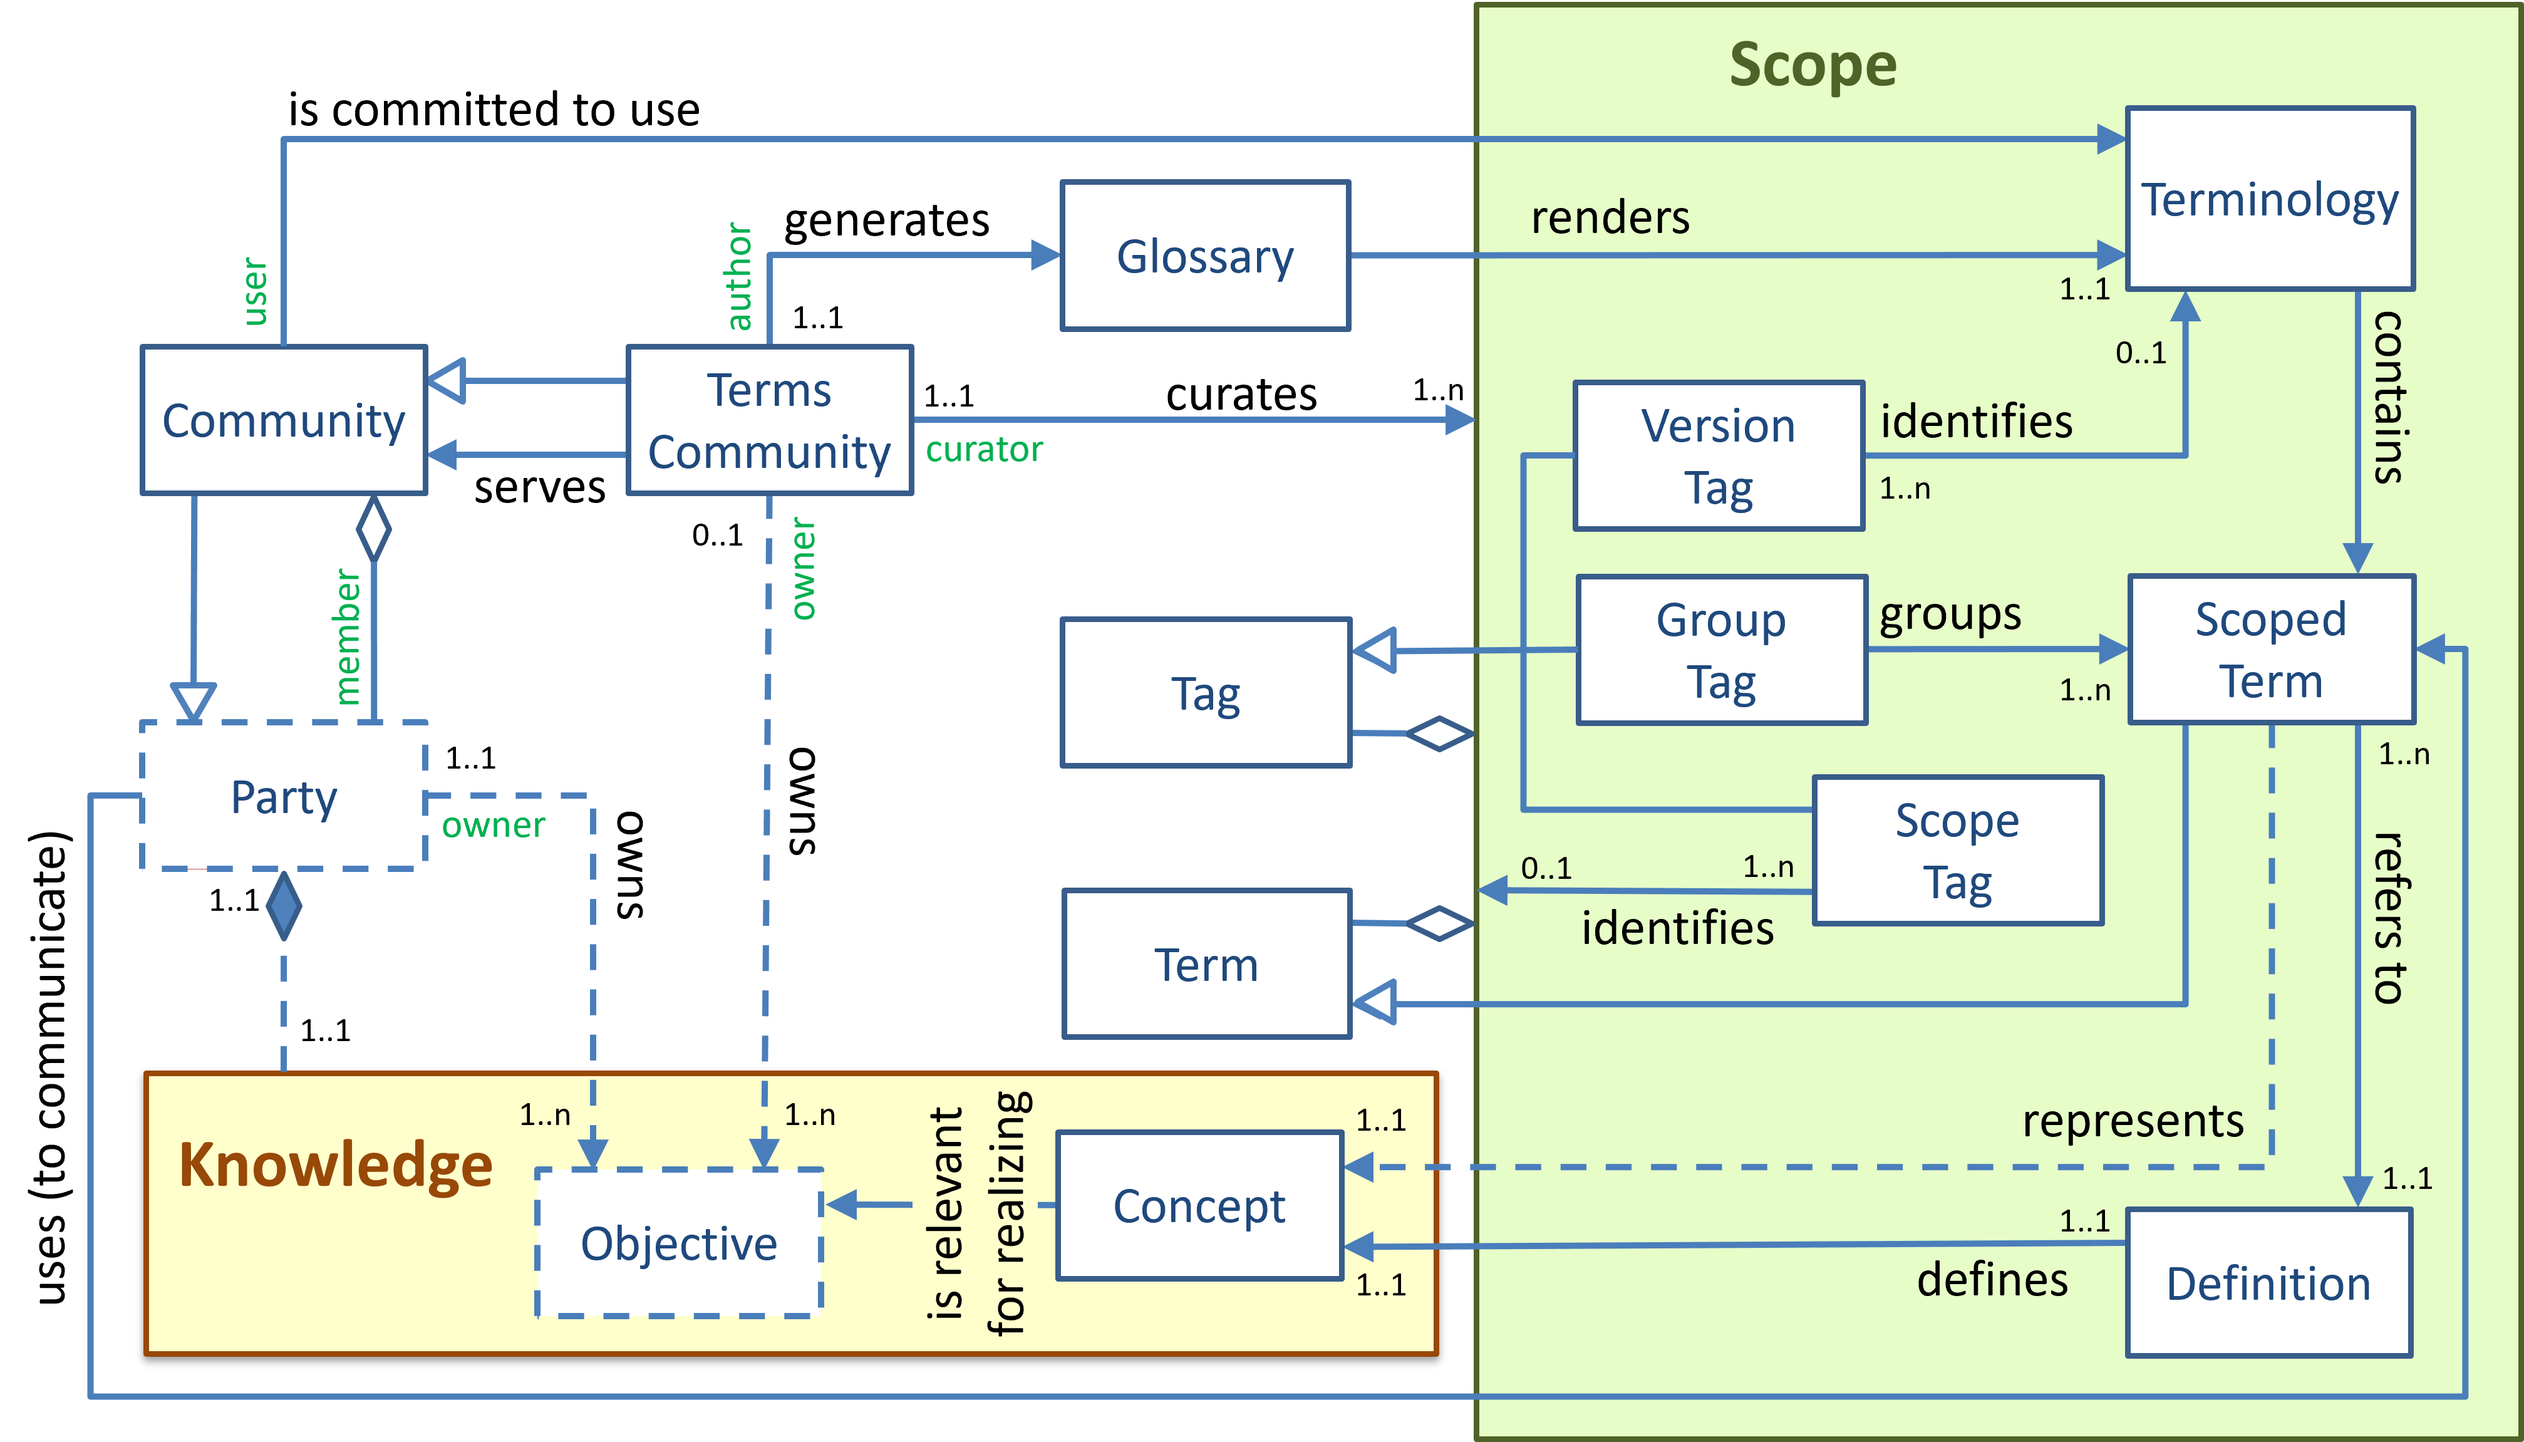
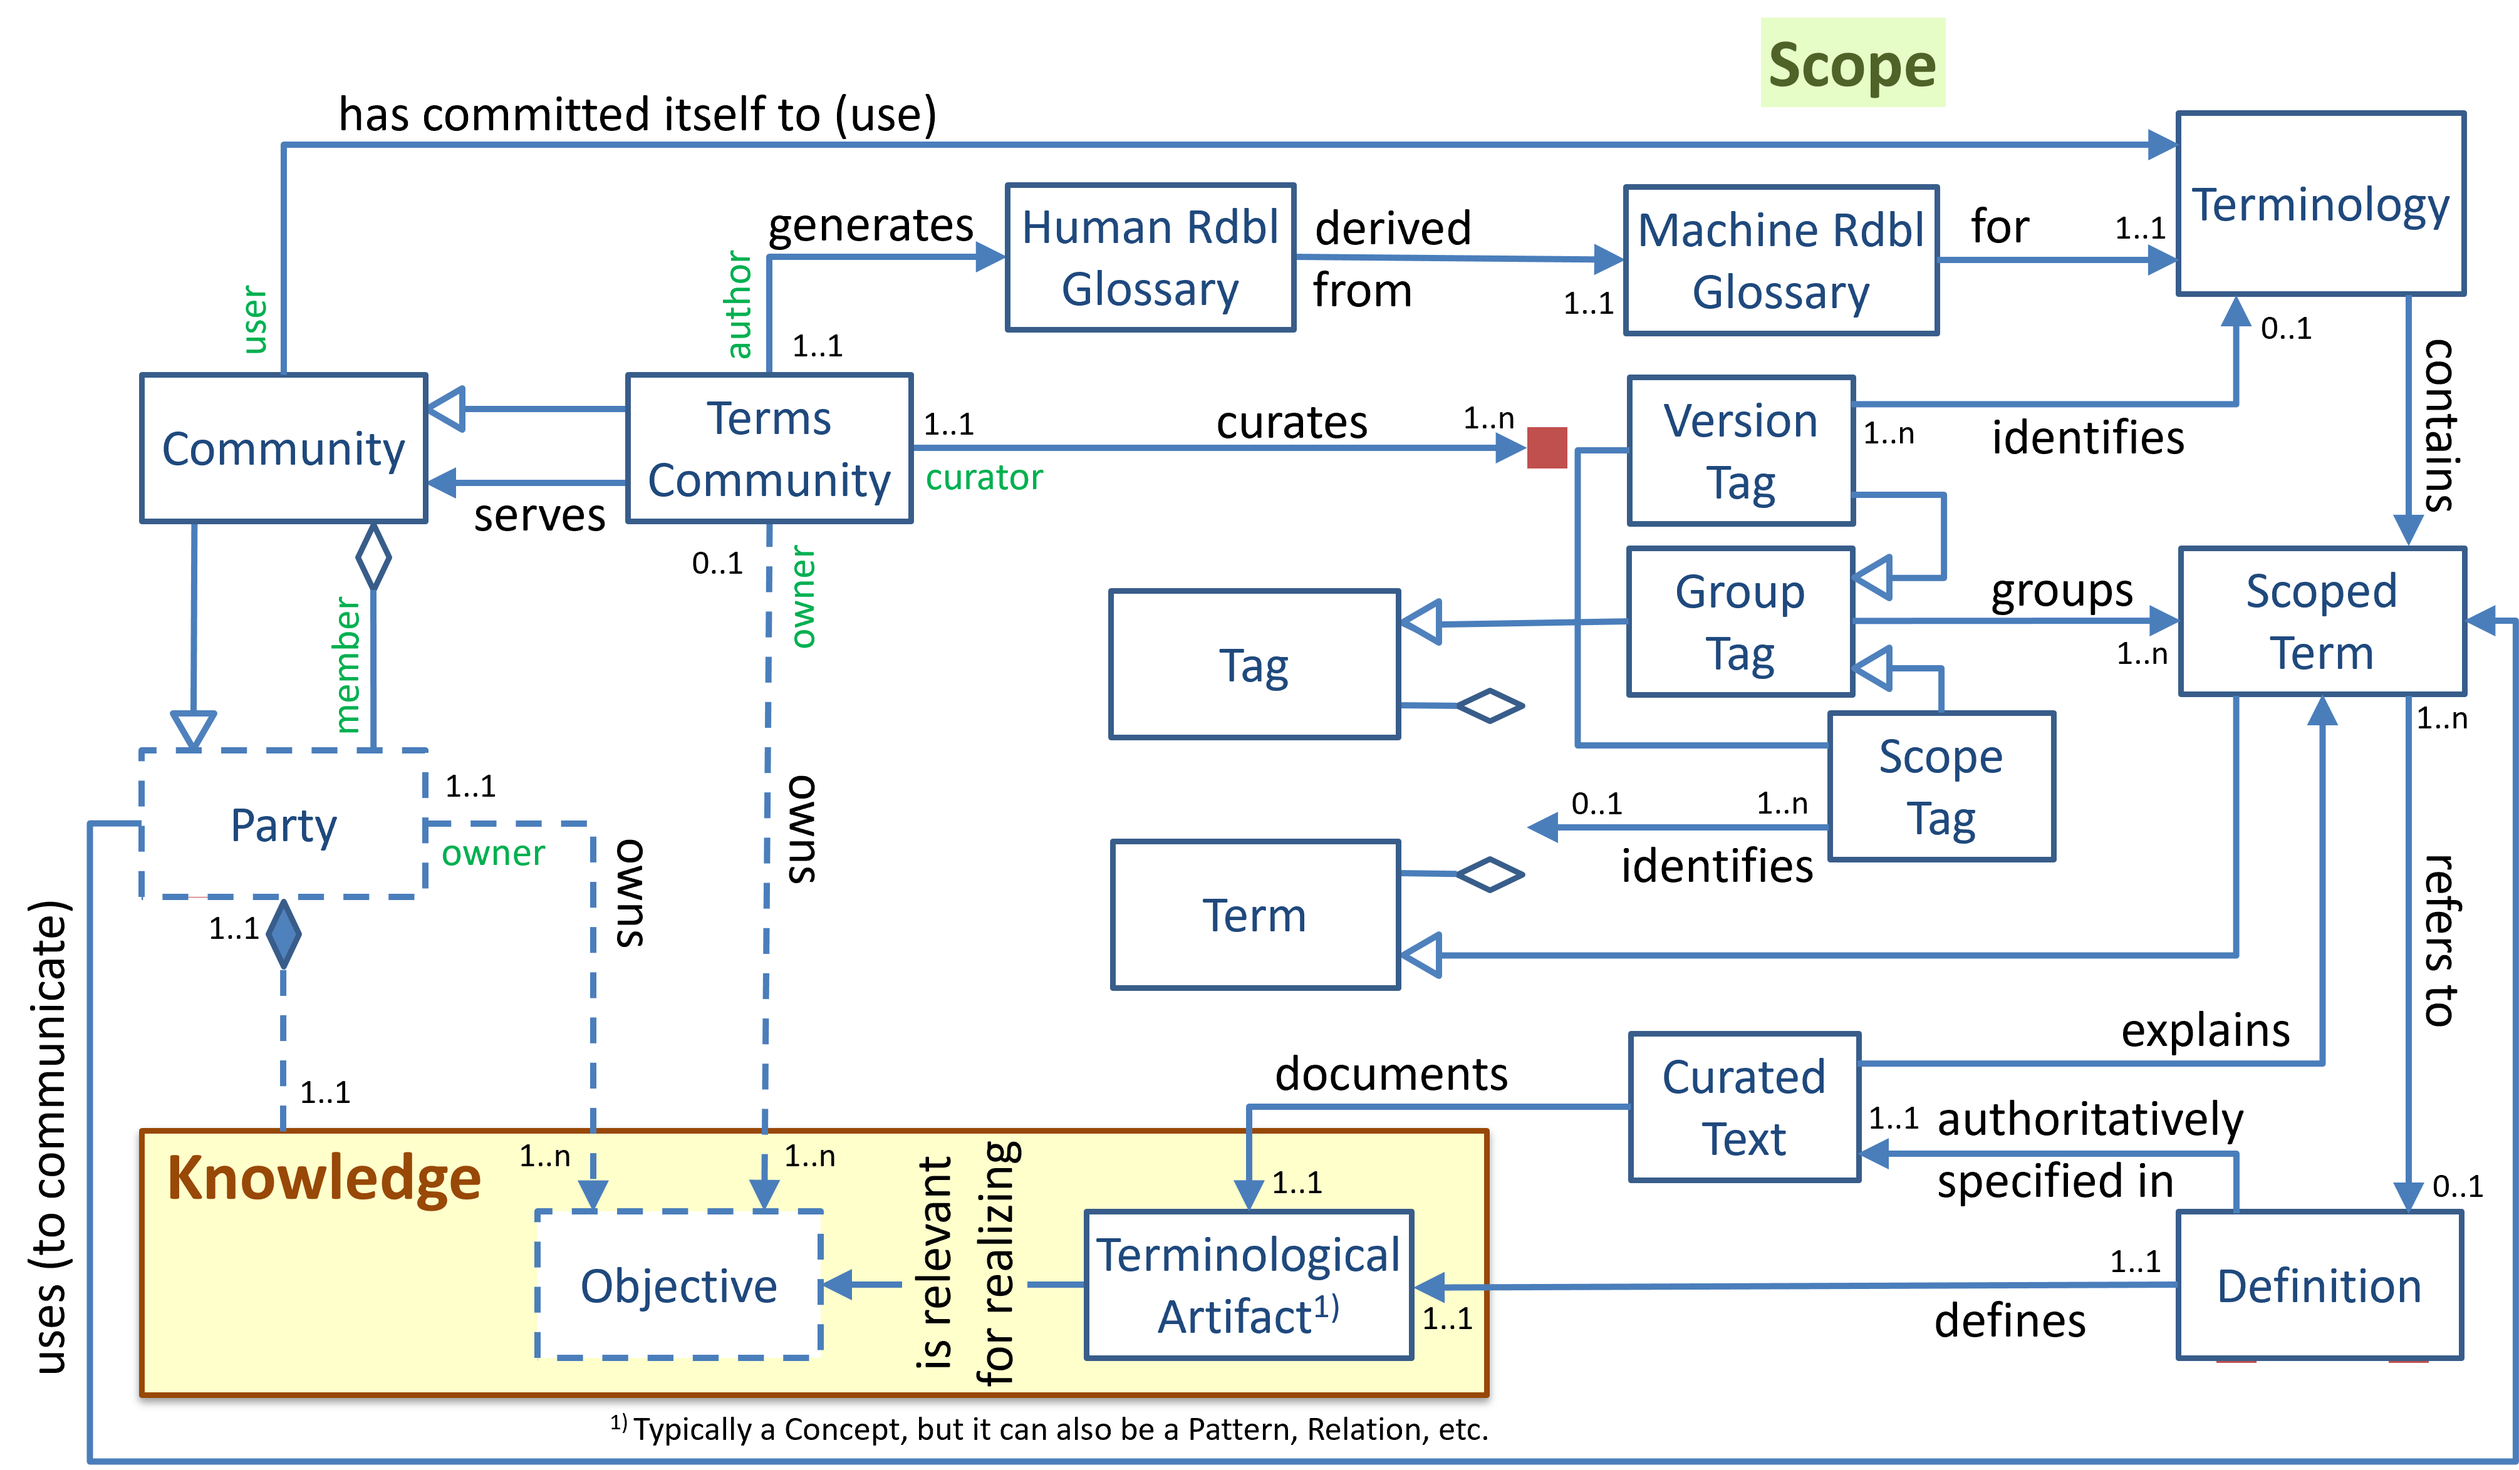
updated terminology-pattern

diff --git a/docs/tev2/terms/pattern-terminology.md b/docs/tev2/terms/pattern-terminology.md
@@ -41,7 +41,7 @@ More concretely, they need the ability and means to
 - create and maintain [definitions](@) that enable them to demonstrably agree on the [concepts](@)/meanings that are relevant in such ways of thinking; a process for creating and maintaining such [definitions](@) is described in this [technical report](https://www.researchgate.net/publication/352560909_on_terminology_and_the_resolution_of_related_issues).
 - decide on the [terms](@) they will use as their [terminology](@), the [definitions](@) they refer to, and thereby also the [concepts](@) that they represent; note that the [community](@) may decide to use [terms](@) that refer to [definitions](@) devised by other [communities](@), or copy such [definitions](@) and start to curate them in their own [community](@).
 
-Once a [community](@) has its [terminology](@) in place, it may want to establish a [glossary](@) that 'renders' that [terminology](@) and serves as the authoritative reference for the (crucial) [terms](@) used by its members. This [glossary](@) is also a valuable reference document for a non-community member, as it helps him/her to (better) understand the (verbal or written) communications authored by that [community](@), i.e. it helps to 'map', or 'translate' the terms of that [community](@) to words or phrases that the person uses itself, which is prerequisite for effectively engaging with that [community](@).
+Once a [community](@) has its [terminology](@) in place, it may want to establish a (human readable) [glossary](@) that 'renders' that [terminology](@) and serves as the authoritative reference for the (crucial) [terms](@) used by its members. This [glossary](@) is also a valuable reference document for a non-community member, as it helps him/her to (better) understand the (verbal or written) communications authored by that [community](@), i.e. it helps to 'map', or 'translate' the terms of that [community](@) to words or phrases that the person uses itself, which is prerequisite for effectively engaging with that [community](@).
 
 The secondary objective of working with a [terminology](@) is to enable members of [ecosystems](@) (as opposed to [communities](@) that we have discussed above) to establish
 
@@ -56,7 +56,7 @@ The benefit of creating and maintaining such [terminologies](@) and [mental mode
 
 This pattern has two basic parts:
 
-1. the [management](@)-related part. This part consists of a [community](@) that [owns](@) its particular set of [objectives](@) which exist for establishing cooperation between its members, and for which it needs to establish and maintain, a [terminology](@). [Managing, or curating](@) a [terminology](@) consists of realizing the [objectives](@) that the terminology is intended to serve, i.e. to establish a set of [concepts](@), [definitions](@), [terms](@) and [mental models](@), the quality of which is such that
+1. the [management](@)-related part. This part consists of a [community](@) that [owns](@) its particular set of [objectives](@) which exist for establishing cooperation between its members, and for which it needs to establish and maintain, a [terminology](@). [Managing, or curating](curate@) a [terminology](@) consists of realizing the [objectives](@) that the terminology is intended to serve, i.e. to establish a set of [concepts](@), [definitions](@), [terms](@) and [mental models](@), the quality of which is such that
   - members of the [community](@) use them ***in the same, single meaning***, thereby preventing difficulties in their cooperation, caused by differences in the individual understandings of words or phrases, and
   - non non-members of the [community](@) can obtain a precise understanding of the communications within that community.
 Also, this [management](@) may cause reference documents to be created and maintained, e.g. a [glossary](@) that lists the [terminology](@) of the [community](@), a [dictionary](@) that includes its [terminology](@) as well as [terminologies](@) from other, related [communities](@).
@@ -100,11 +100,12 @@ We refer the reader to the [governance and management pattern](pattern-governanc
 Note that for a [terms-community](@) to serve itself, it may want to commit to a [terminology](@) such as the one we are developing here.
 
 #### Green: Scopes - Terminological Concepts {#green}
-Every [terminology](@) is scoped, i.e. part of a [scope](@). This [scope](@) also consists of [definitions](@), [scoped terms](@), and various kinds of [tags](@). These components of the [scope](@) exist for as long as the [scope](@) exists. Note that if a [scoped term](@) ceases to exist,[terms](@) with the same name typically continue to exist in the [scope(s)](@) of which they are still a part.
+
+Every [terminology](@) is scoped, i.e. part of a [scope](@). This [scope](@) consists of various other things, including [definitions](@), [scoped terms](@), [curated texts](@), and various kinds of [tags](@). These components of the [scope](@) exist for as long as the [scope](@) exists. Note that if a [scoped term](@) ceases to exist, [terms](@) with the same name typically continue to exist in the [scope(s)](@) of which they are still a part.
 
 Apart from the multiplicity constrained that are showed in the figure, some additional rules apply:
 - every [term](@) that is part of a [scope](@) is contained in the [terminology](@) of that [scope](@).
-- every pair ([scope](@), [term](@)) refers to precisely one [definition](@).
+- every pair ([scope](@), [term](@)) refers to no more than one [definition](@), that is authoritatively specified one [curated text](@) that explains that [(scoped) term](scoped-term@).
 - every [definition](@) that is part of a [scope](@) is referred to by a [term](@) that is also part of that [scope](@)
 
 When we say that a [terms-community](@) curates a [scope](@), this means that the [terms-community](@)
@@ -115,6 +116,6 @@ When we say that a [terms-community](@) curates a [scope](@), this means that th
 - [manages](@) (creates/maintains) the various [tags](@) in the scope, i.e. defines a [scopetag](@) for the [scope](@), [versiontags](@) (if necessary) for the different versions of the [terminology](@) of that [scope](@), and (optionally) any [grouptags](@) for grouping sets of [terms](@).
 
 #### Yellow: Intangible Concepts {#yellow}
-The intangible [concepts](@) are important because this is where the misunderstandings live. The [knowledge](@) of a [party](@) uses a subjective [conceptualization](@) of the world (that the [party](@) has perceived to be living in for as long as it exists) for its individual reasoning, arguing, communicating, decision making etc. Because of this, two [parties](@) that collaborate (i.e.: form a [community](@)) cannot be expected to have the same conceptualizations. However, it is a common belief that if one uses a [term](@) to refer to a [concept](@) in its [knowledge](@), the other will then relate it to 'the same' [concept](@) within its own knowledge, that we should not assume actually exists. For example, when one of them uses the [term](@) 'identity', it knows which [concept](@) that relates to within its own [knowledge](@). However, others need to hallucinate as to what that [concept](@) might be, and typically respond by thinking that the [concept](@) that the [term](@) refers to in their own [knowledge](@) would be its intended meaning. In many cases that doesn't pose a problem, because the [concepts](@) of both [knowledges](@) are 'sufficiently the same'. In other cases, the differences in meaning may be such that it disrupts the collaboration between the [parties](@). And that is when it helps to have 'good [definitions](@)', because they have the property that collaborators can assess whether or not the [concepts](@) in their [knowledge](@) (that a well-defined [term](@) refers to) are 'sufficiently the same'.
+The intangible [terminological artifacts](@) (e.g., [concepts](@), [relations](@), [patterns](@) etc.) are important because this is where the misunderstandings live. The [knowledge](@) of a [party](@) uses a subjective [conceptualization](@) of the world (that the [party](@) has perceived to be living in for as long as it exists) for its individual reasoning, arguing, communicating, decision making etc. Because of this, two [parties](@) that collaborate (i.e.: form a [community](@)) cannot be expected to have the same conceptualizations. However, it is a common belief that if one uses a [term](@) to refer to a [concept](@) in its [knowledge](@), the other will then relate it to 'the same' [concept](@) within its own knowledge, that we should not assume actually exists. For example, when one of them uses the [term](@) 'identity', it knows which [concept](@) that relates to within its own [knowledge](@). However, others need to hallucinate as to what that [concept](@) might be, and typically respond by thinking that the [concept](@) that the [term](@) refers to in their own [knowledge](@) would be its intended meaning. In many cases that doesn't pose a problem, because the [concepts](@) of both [knowledges](@) are 'sufficiently the same'. In other cases, the differences in meaning may be such that it disrupts the collaboration between the [parties](@). And that is when it helps to have 'good [definitions](@)', because they have the property that collaborators can assess whether or not the [concepts](@) in their [knowledge](@) (that a well-defined [term](@) refers to) are 'sufficiently the same'.
 
 In order to keep the work of devising [definitions](@) to a minimum, it helps to know the [objectives](@) that the members of the [community](@) collaboratively seek to realize. Any [definition](@) should define a [concept](@) that is relevant for that collaboration. Other definitions are just useless work.
